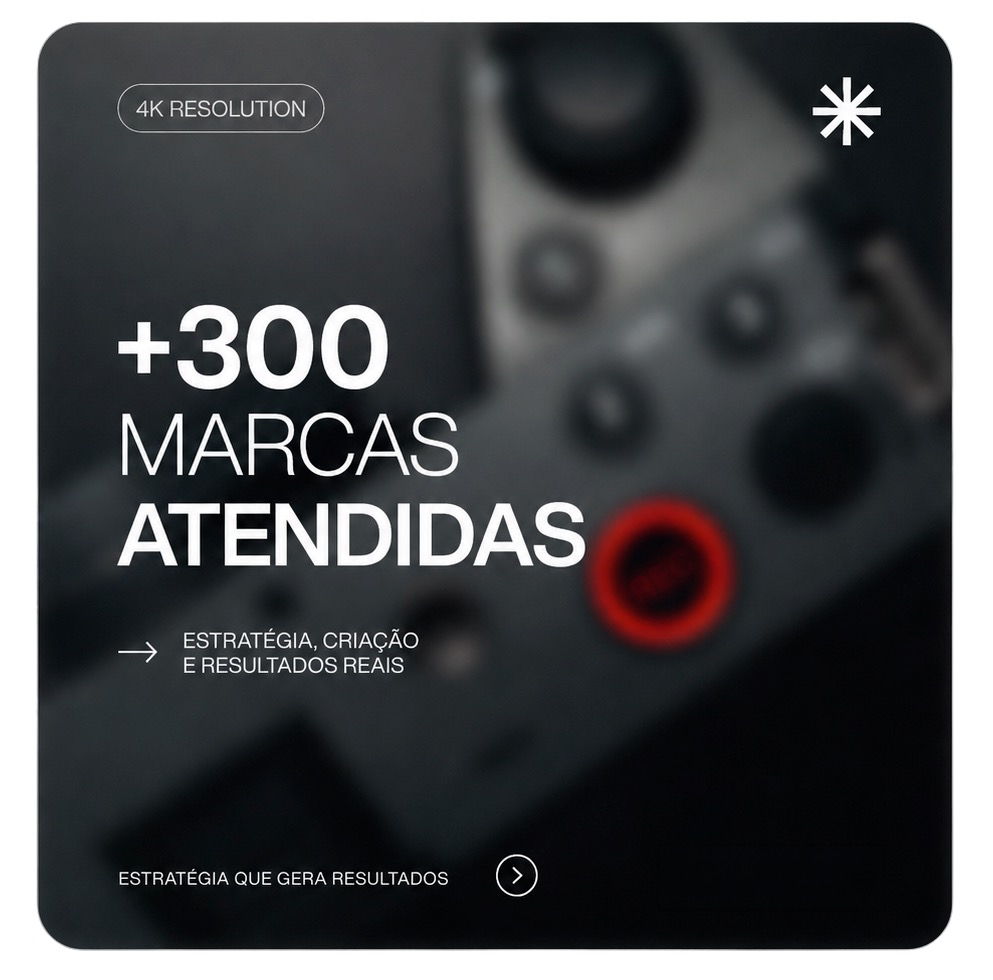
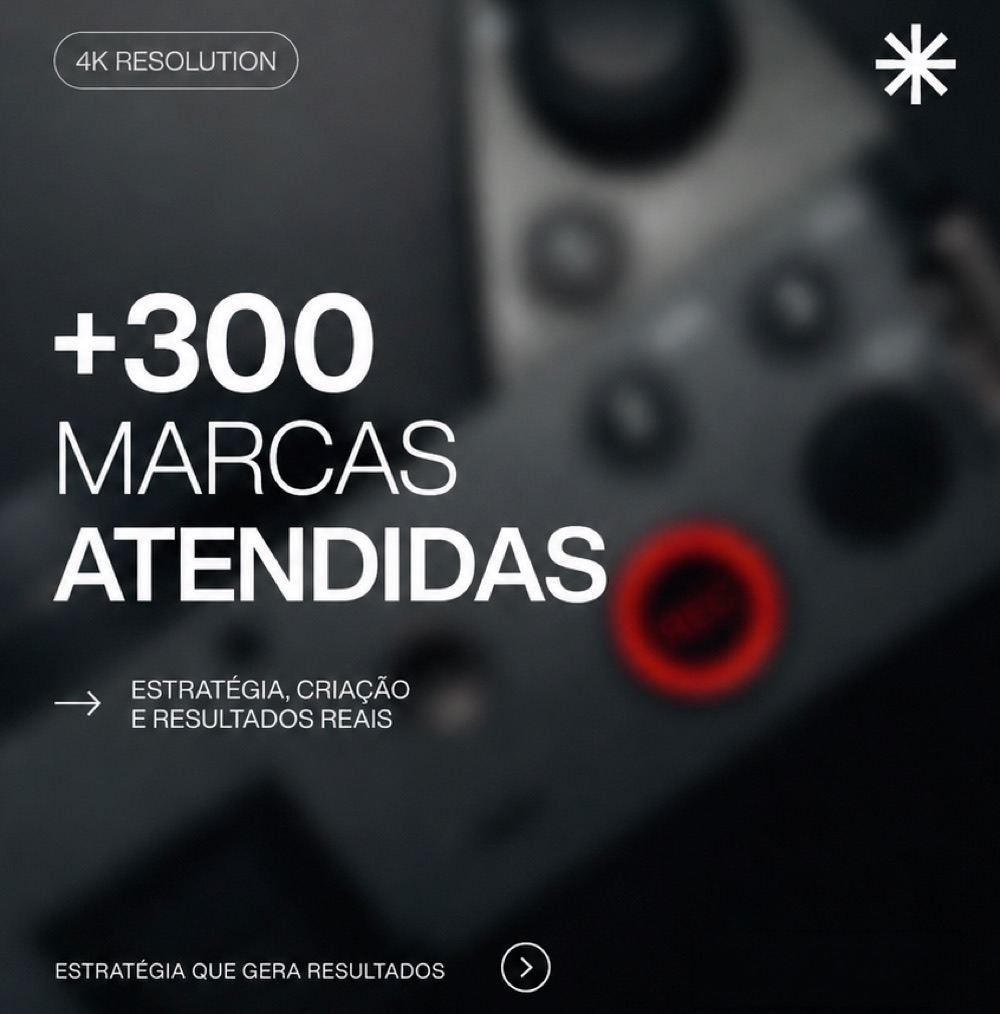
Prova social: novo título, arte do +30, card 03 em vidro e imagem da dor real
- Título vira 'Marketing baseado em métricas não em achismo.', na fonte
  do logotipo (h-sans), centralizado no desktop e no mobile, com
  'métricas' no acento laranja (3 campos no CMS: antes/destaque/depois)
- Card 02: arte +30.png com a informação já embutida; texto sobreposto
  removido, só a etiqueta 02/ permanece
- Card 03: fundo de vidro fumê — degradê escuro, reflexo no topo,
  brilho de acento difuso e hairline de borda, sem perder contraste
- Card 04: arte recortada para fora da moldura branca original, agora
  preenche o card inteiro (object-cover) e ganhou o mesmo hover/zoom
- A dor real: dor-central passa a usar a foto DINHEIRO, recortada 3:4

diff --git a/src/components/ProvaSocial.tsx b/src/components/ProvaSocial.tsx
@@ -14,9 +14,15 @@ export default function ProvaSocial() {
   return (
     <section className="sec-light py-[clamp(40px,5vw,72px)]" aria-labelledby="prova-title">
       <div className="container-cut">
-        <h2 id="prova-title" className="font-bold" style={{ fontSize: "var(--fs-h2)", lineHeight: 1.15 }}>
-          <span className="block">{p.tituloLinha1}</span>
-          <span className="block text-text2-light">{p.tituloLinha2}</span>
+        {/* título na fonte do logotipo (h-sans), centralizado, com a
+            palavra de destaque no acento */}
+        <h2
+          id="prova-title"
+          className="h-sans mx-auto max-w-[20ch] text-center text-balance"
+          style={{ fontSize: "var(--fs-h2)" }}
+        >
+          {p.tituloAntes} <span className="text-accent">{p.tituloDestaque}</span>{" "}
+          {p.tituloDepois}
         </h2>
 
         <div className="mt-12 grid gap-3 lg:grid-cols-12">
@@ -65,55 +71,65 @@ export default function ProvaSocial() {
             </Media>
           </Reveal>
 
-          {/* 02 — card largo com título sobre a imagem */}
+          {/* 02 — arte com a informação já embutida; sem título por cima */}
           <Reveal delay={90} className="lg:col-span-8">
             <Media
               file="prova-02.webp"
               src={p.card02Imagem}
-              alt="Ambiente de trabalho de uma empresa da região em operação"
+              alt="Estúdio da Cut Creative: mais de 30 colaboradores, 5 anos no mercado e atendimento nacional"
               ratio="21 / 9"
               hover
               className="[&_img]:filter-none"
             >
-              <div
-                className="absolute inset-0 flex items-start justify-between p-6"
-                style={{
-                  background: "linear-gradient(to bottom, rgba(11,11,11,.4), transparent 40%)",
-                }}
-              >
-                <p className="text-2xl font-bold text-paper-50 md:text-3xl">
-                  {p.card02Titulo}
-                </p>
+              <div className="absolute inset-x-0 top-0 flex justify-end p-6">
                 <span className="bento-tag text-paper-50/85">02/</span>
               </div>
             </Media>
           </Reveal>
 
-          {/* 03 — card escuro com o texto e CTA */}
+          {/* 03 — card em vidro fumê: base escura em degradê, reflexo no
+              topo, brilho de acento difuso no canto e hairline de borda.
+              O conteúdo fica acima das camadas, com contraste preservado. */}
           <Reveal delay={140} className="lg:col-span-4">
-            <div className="flex h-full flex-col rounded-media bg-ink-900 p-7 text-paper-50">
-              <div className="flex justify-between text-text2-dark">
-                <span className="bento-tag">{p.card03Tag}</span>
-                <span className="bento-tag">03/</span>
-              </div>
-              <p className="mt-5 text-[15px] leading-relaxed text-paper-50/90">
-                {p.card03Texto}
-              </p>
-              <div className="mt-auto pt-7">
-                <a href="#diagnostico" className="btn-white">
-                  {p.card03Cta}
-                </a>
+            <div className="relative flex h-full flex-col overflow-hidden rounded-media border border-paper-50/10 p-7 text-paper-50 backdrop-blur-xl">
+              <div
+                className="absolute inset-0 bg-gradient-to-br from-ink-700 via-ink-900 to-ink-900"
+                aria-hidden
+              />
+              <div
+                className="absolute inset-0 bg-gradient-to-b from-paper-50/[0.08] via-transparent to-transparent"
+                aria-hidden
+              />
+              <div
+                className="absolute -top-20 -right-20 h-56 w-56 rounded-pill bg-accent/15 blur-3xl"
+                aria-hidden
+              />
+
+              <div className="relative flex h-full flex-col">
+                <div className="flex justify-between text-text2-dark">
+                  <span className="bento-tag">{p.card03Tag}</span>
+                  <span className="bento-tag">03/</span>
+                </div>
+                <p className="mt-5 text-[15px] leading-relaxed text-paper-50/90">
+                  {p.card03Texto}
+                </p>
+                <div className="mt-auto pt-7">
+                  <a href="#diagnostico" className="btn-white">
+                    {p.card03Cta}
+                  </a>
+                </div>
               </div>
             </div>
           </Reveal>
 
-          {/* 04 — arte pronta do cliente, mesma largura do 03, cores
-              originais (sem dessaturação) e preenchendo a célula */}
+          {/* 04 — arte pronta do cliente preenchendo o card inteiro
+              (object-cover), cores originais e o mesmo hover dos demais */}
           <Reveal delay={190} className="lg:col-span-4">
             <Media
               file="prova-04.webp"
               src={p.card04Imagem}
               alt="+300 marcas atendidas — estratégia, criação e resultados reais"
+              hover
               className="aspect-square h-full [&_img]:filter-none lg:aspect-auto"
             />
           </Reveal>
